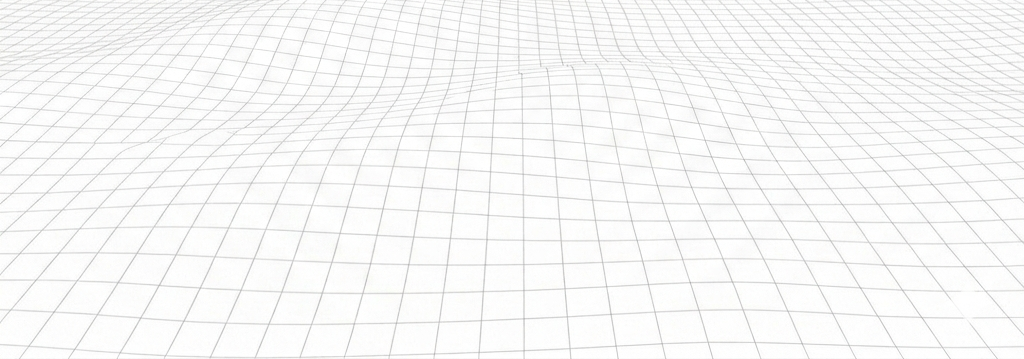
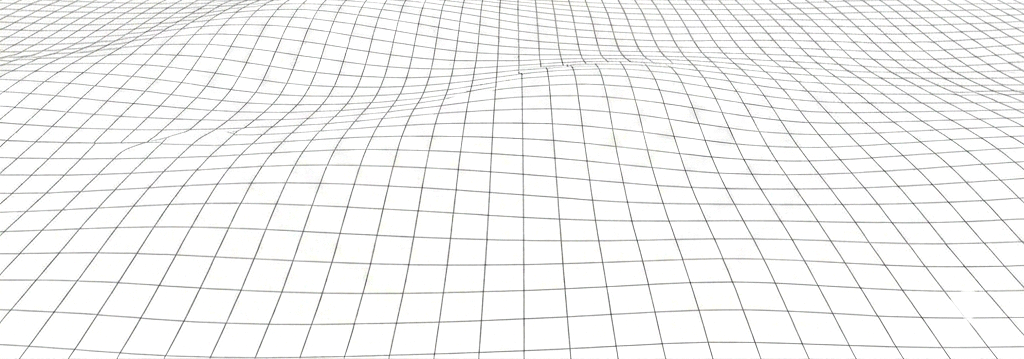
Increase wave strip to 40px and boost image contrast for visibility

diff --git a/index.html b/index.html
@@ -358,7 +358,7 @@
 <div id="sidebar-backdrop"></div>
 
 <!-- ═══ HEADER ═══ -->
-<div class="header flex items-center justify-between px-5 flex-shrink-0" style="height:55px; position:relative; overflow:hidden; background:url('wave6.png') center bottom / 100% 20px no-repeat;">
+<div class="header flex items-center justify-between px-5 flex-shrink-0" style="height:55px; position:relative; overflow:hidden; background:url('wave6.png') center bottom / 100% 40px no-repeat;">
   <div class="flex items-center gap-4" style="position:relative;">
[1 lines of base64/hex data omitted]
     <div style="width:1px; height:28px; background:var(--navy-border);"></div>
